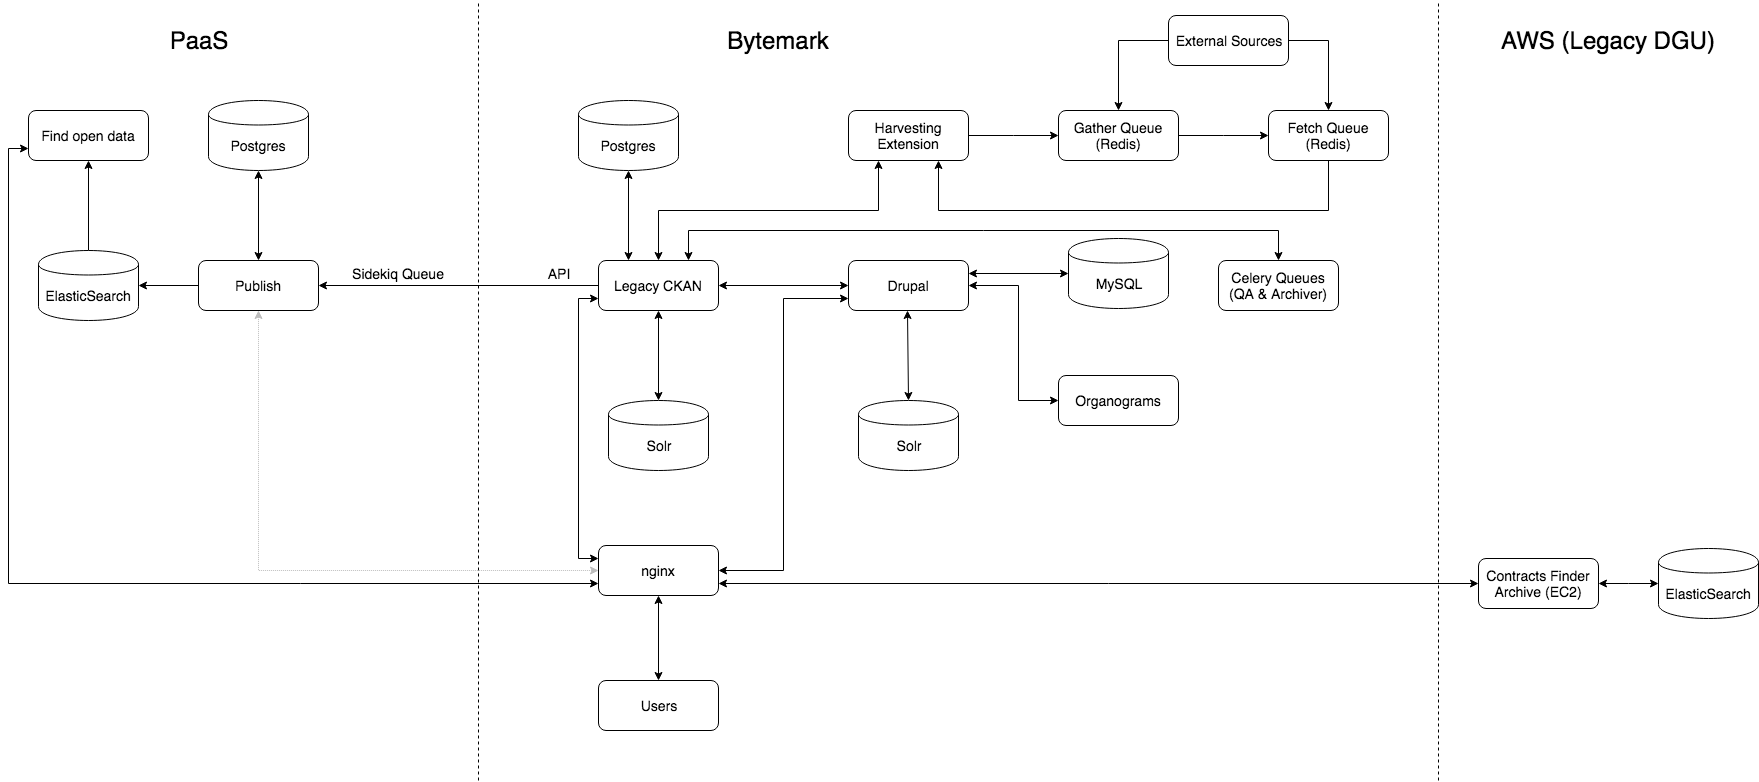
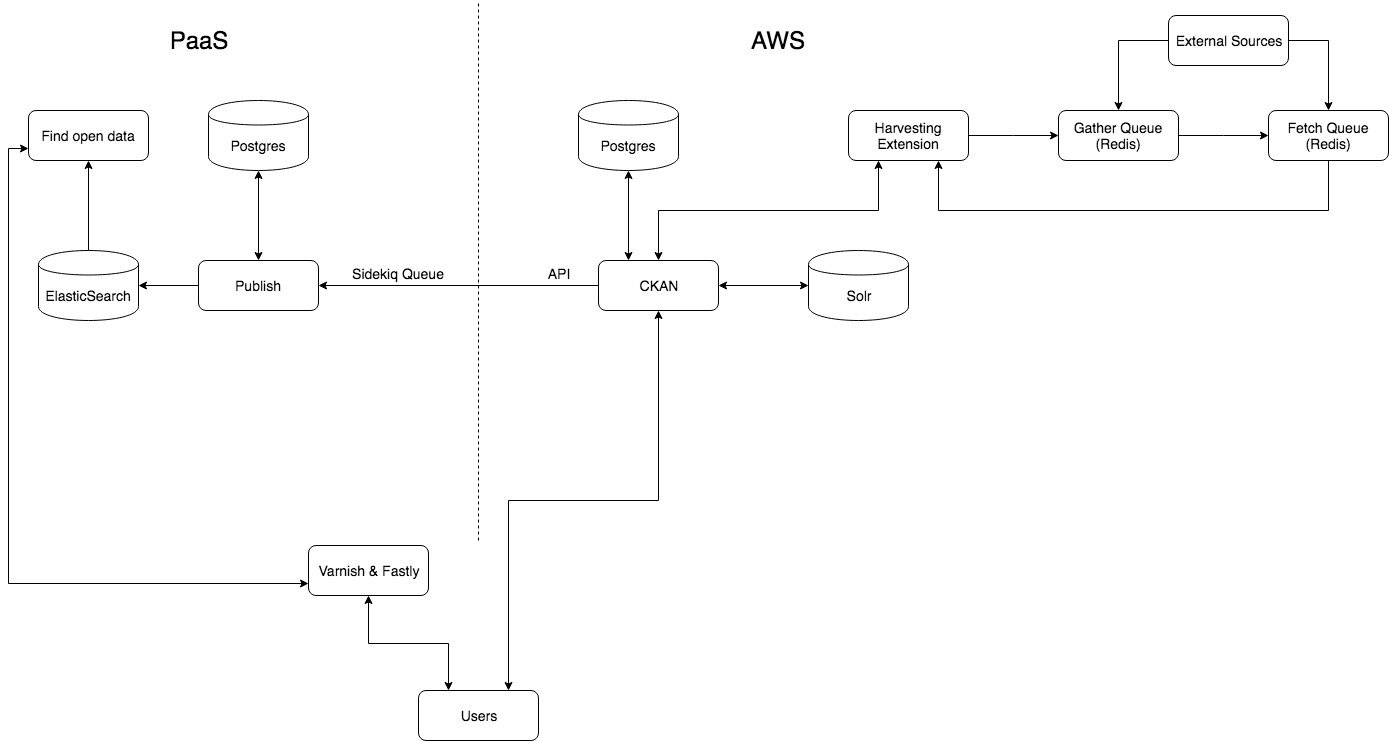
Update DGU architecture for new CKAN

diff --git a/source/manual/data-gov-uk-architecture.html.md b/source/manual/data-gov-uk-architecture.html.md
@@ -4,8 +4,8 @@ title: Architecture of data.gov.uk
 section: data.gov.uk
 layout: manual_layout
 parent: "/manual.html"
-last_reviewed_on: 2018-12-17
-review_in: 8 weeks
+last_reviewed_on: 2018-12-21
+review_in: 6 months
 ---
 [publish]: apps/datagovuk_publish
 [find]: apps/datagovuk_find
@@ -34,21 +34,21 @@ review_in: 8 weeks
 [time-interval-service]: https://github.com/epimorphics/IntervalServer
 [heroku]: https://docs.publishing.service.gov.uk/manual/review-apps.html#use-the-shared-heroku-account
 
-The `data.gov.uk` (DGU) platform is used to publish and view datasets. A dataset is a document about a collection of links to documentation or data hosted somewhere on the Internet.
+The `data.gov.uk` (DGU) platform is used to publish and view datasets. A dataset contains the metadata for a collection of links to data hosted somewhere on the internet.
 
 ## Architectural overview of data.gov.uk
 
 ![](/manual/images/dgu-architecture.png)
 
-The original for this diagram is available on the [Platform Health Google Drive](https://drive.google.com/open?id=1RoI6k6HA_GWUqRG3cC_REQu3BjeXcttp) and can be edited with draw.io.
+The original for this diagram is available on the [Platform Health Google Drive](https://drive.google.com/open?id=1xnwgUBrwnQI2aIfZ0FT8nBQ-pERNRo2r) and can be edited with draw.io.
 
 ## data.gov.uk Services
 
 Services owned by data.gov.uk
 
-  * [CKAN] is the legacy publishing and finder app for datasets ('packages'). It also runs Nginx to support [Find].
-  * [Find] is the public frontend for searching datasets using Elasticsearch. It replaces CKAN for certain routes.
-  * [Publish] is the prototype publishing app for datasets. It currently syncs with CKAN to populate Elasticsearch.
+  * [CKAN] is the publishing app for datasets ('packages').
+  * [Find] is the public frontend for searching datasets using Elasticsearch.
+  * [Publish] is a prototype publishing app for datasets. Whilst not public facing, it currently syncs data from CKAN into Elasticsearch for use in Find.
   * [Reference][reference] is a legacy service that attempts to provide a [nomenclature of time intervals][time-interval-service], hosted on [Heroku][heroku].
 
 Services with data.gov.uk sub-domains, but owned by other departments
@@ -83,4 +83,4 @@ We use [GOV.UK Signon][signon] for user authentication in [Publish Data][publish
 
 ## [CKAN]
 
-Legacy [CKAN] is hosted on Bytemark servers. New CKAN (still under development) will be hosted on GOV.UK infrastructure.
+[CKAN] is hosted on AWS and is maintained/deployed in the same way as most other GOV.UK applications.
